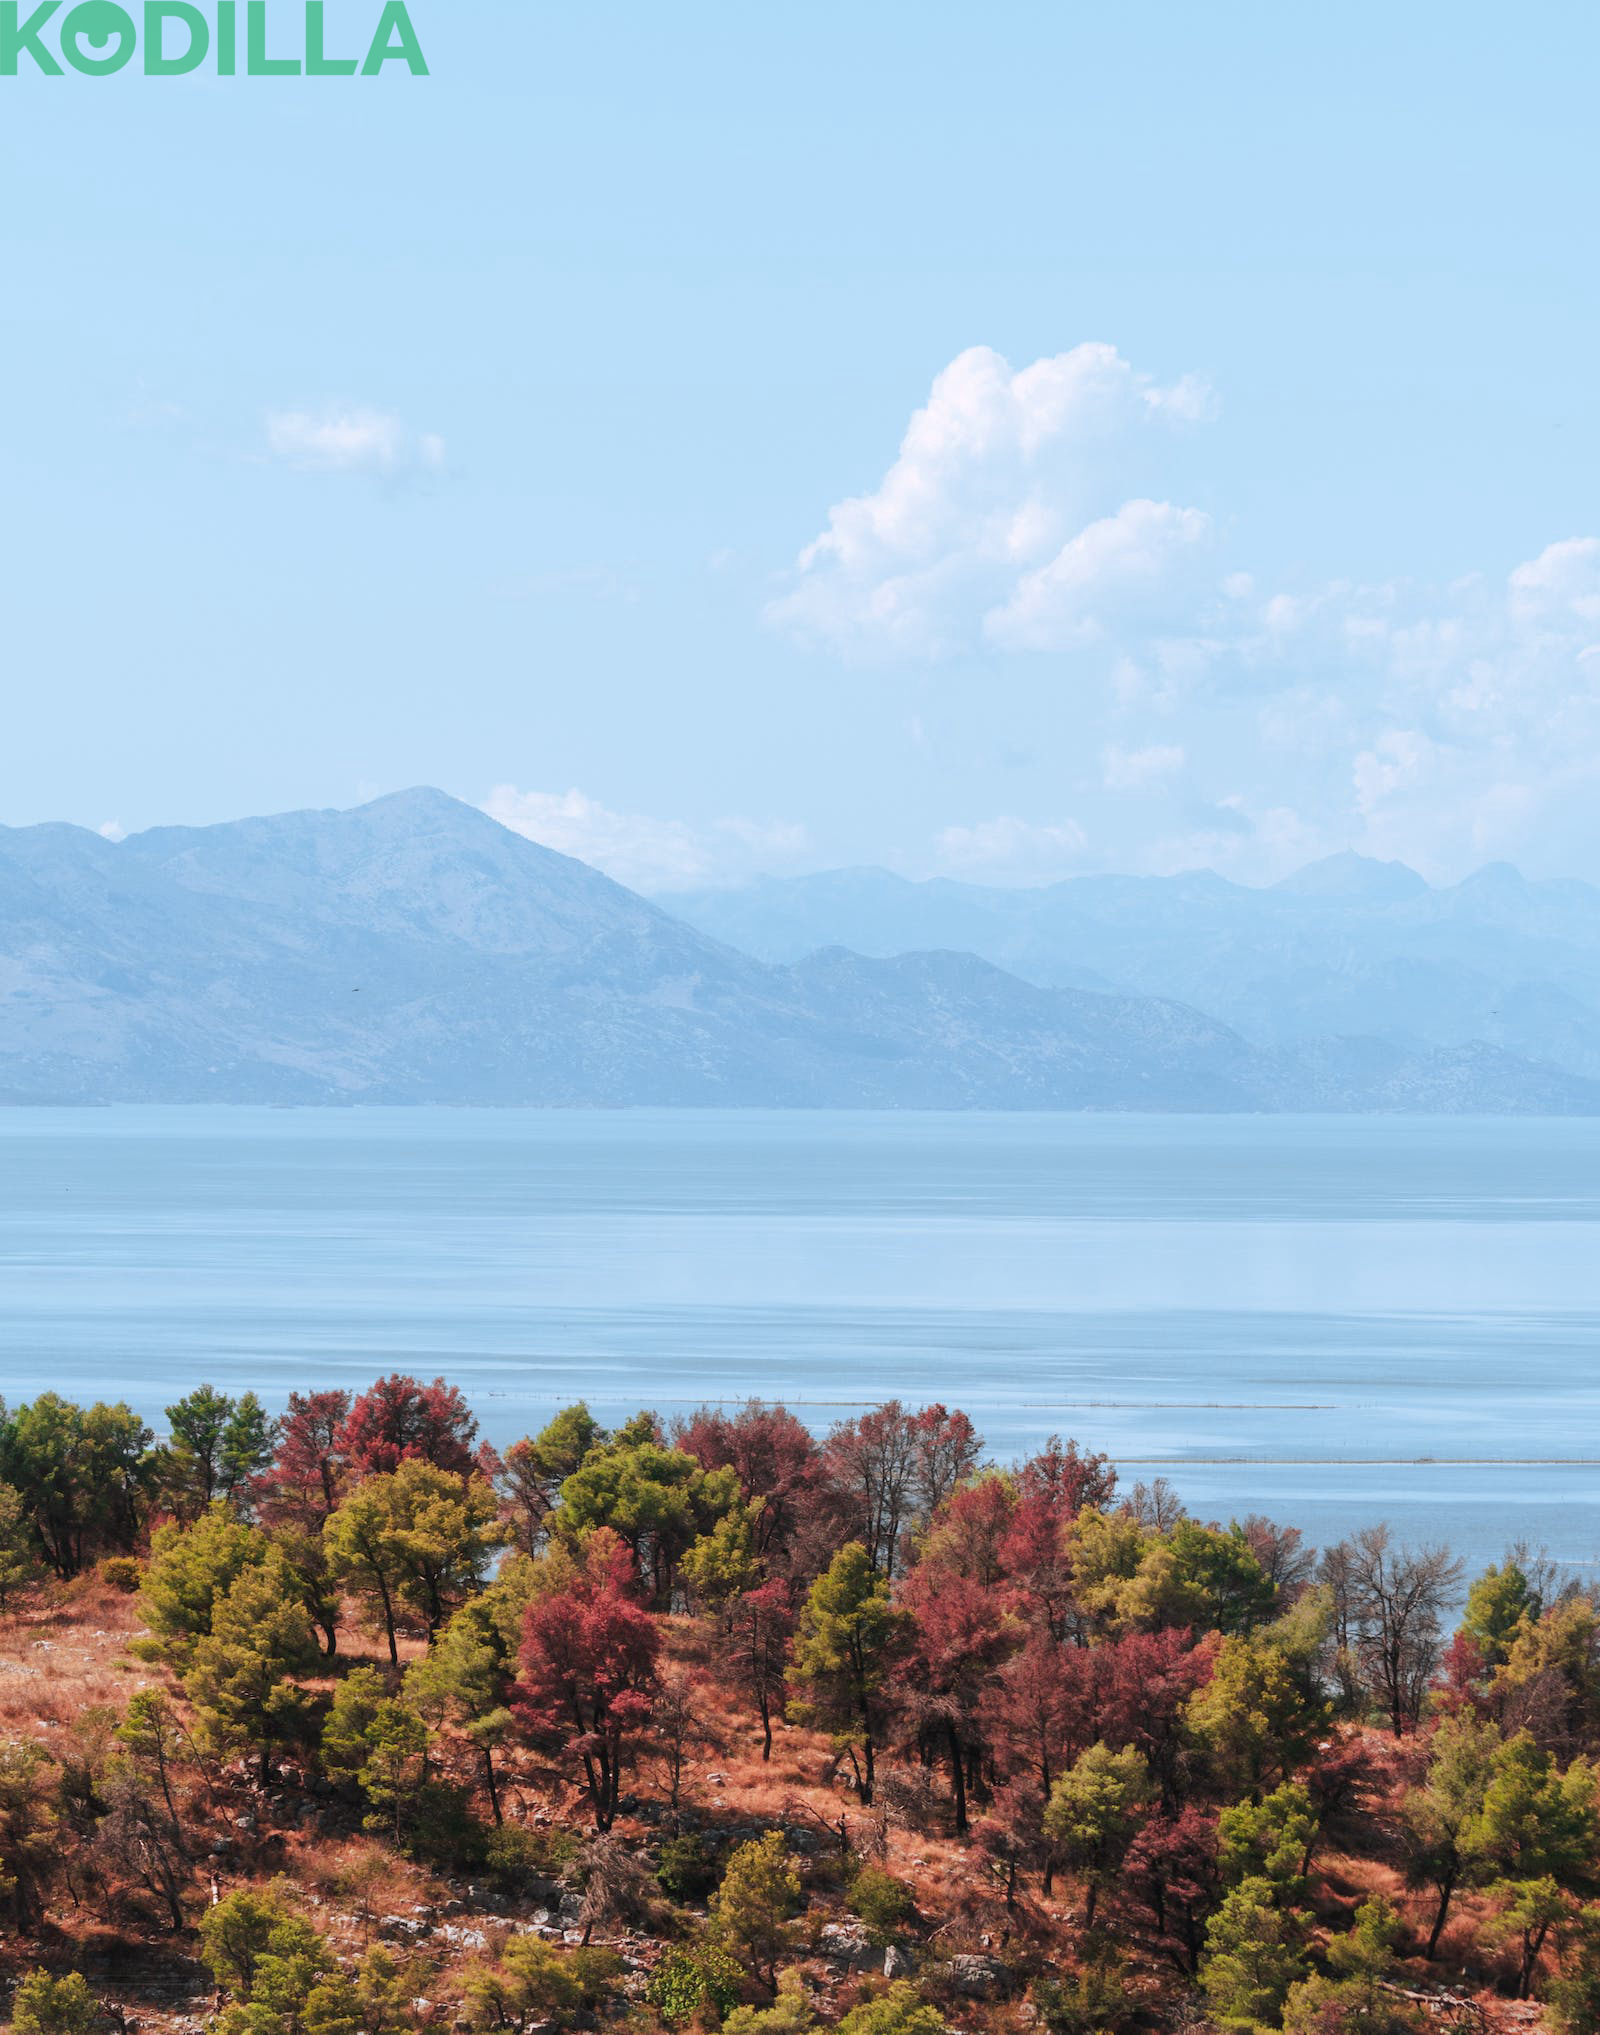
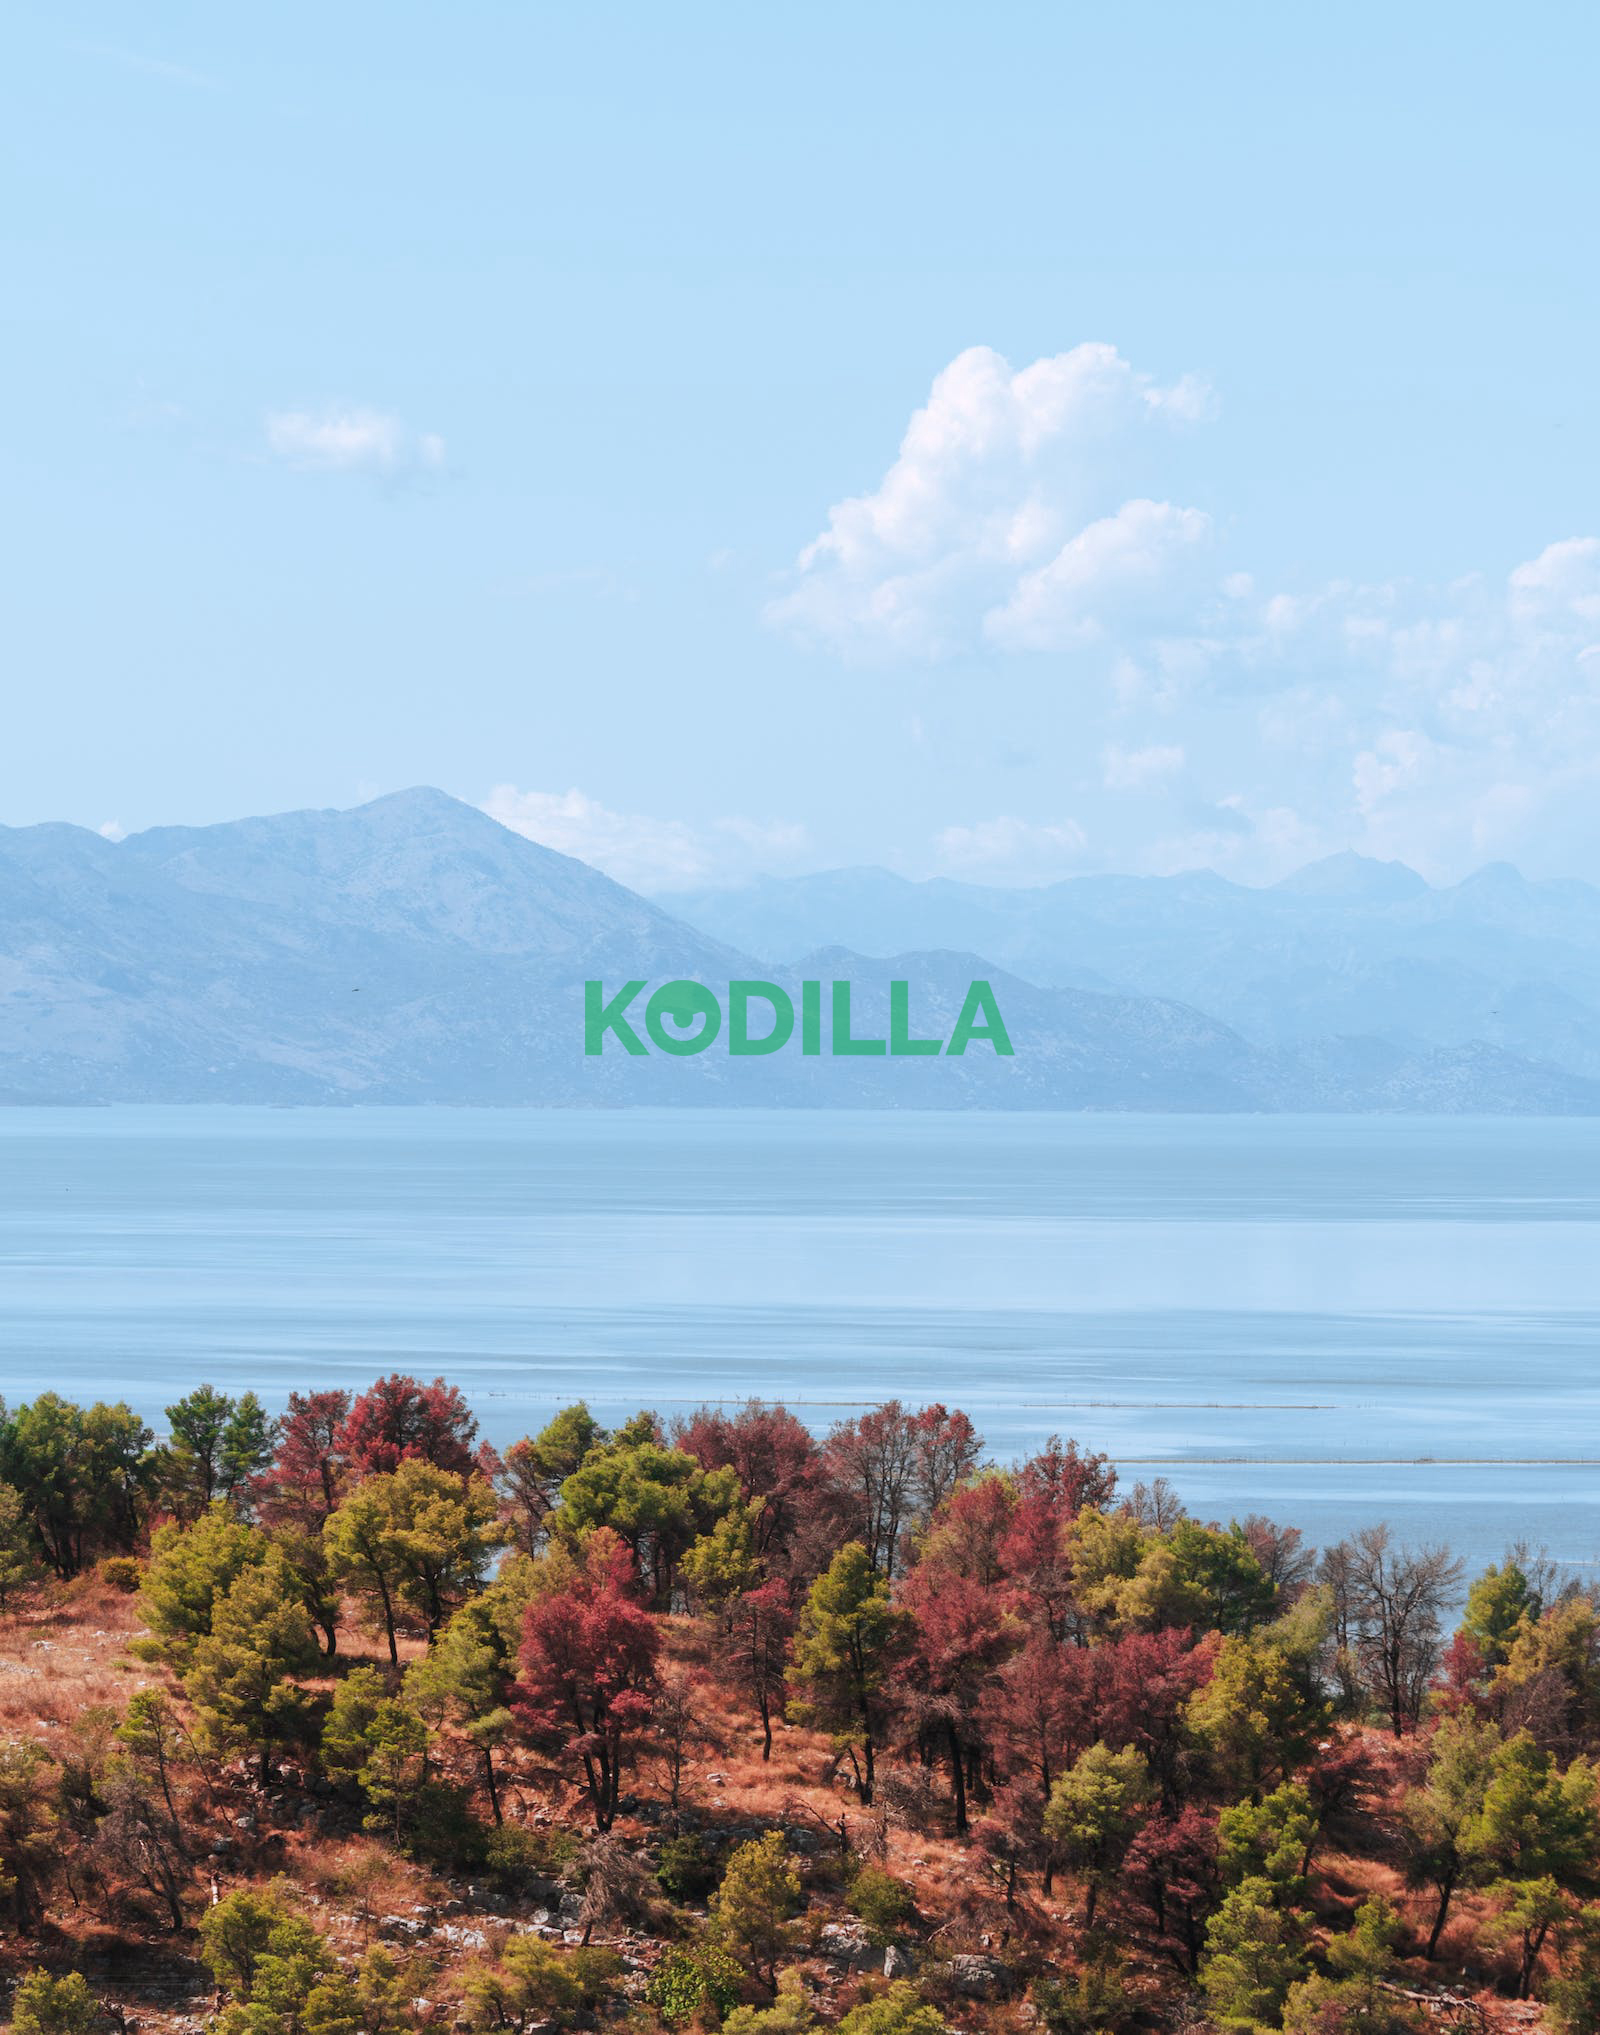
Make watermark image appear in the center

Changed region(s): [[0.3438, 0.4644, 0.625, 0.5263], [0.0, 0.0, 0.2812, 0.0619]]

diff --git a/app.js b/app.js
@@ -18,8 +18,10 @@ addTextWatermarkToImage('./test.jpg', './test-with-watermark.jpg', 'Hello world'
 const addImageWatermarkToImage = async function(inputFile, outputFile, watermarkFile) {
   const image = await Jimp.read(inputFile);
   const watermark = await Jimp.read(watermarkFile);
+  const x = image.getWidth() / 2 - watermark.getWidth() / 2;
+  const y = image.getHeight() / 2 - watermark.getHeight() / 2;
 
-  image.composite(watermark, 0, 0, {
+  image.composite(watermark, x, y, {
     mode: Jimp.BLEND_SOURCE_OVER,
     opacitySource: 0.5,
   });
